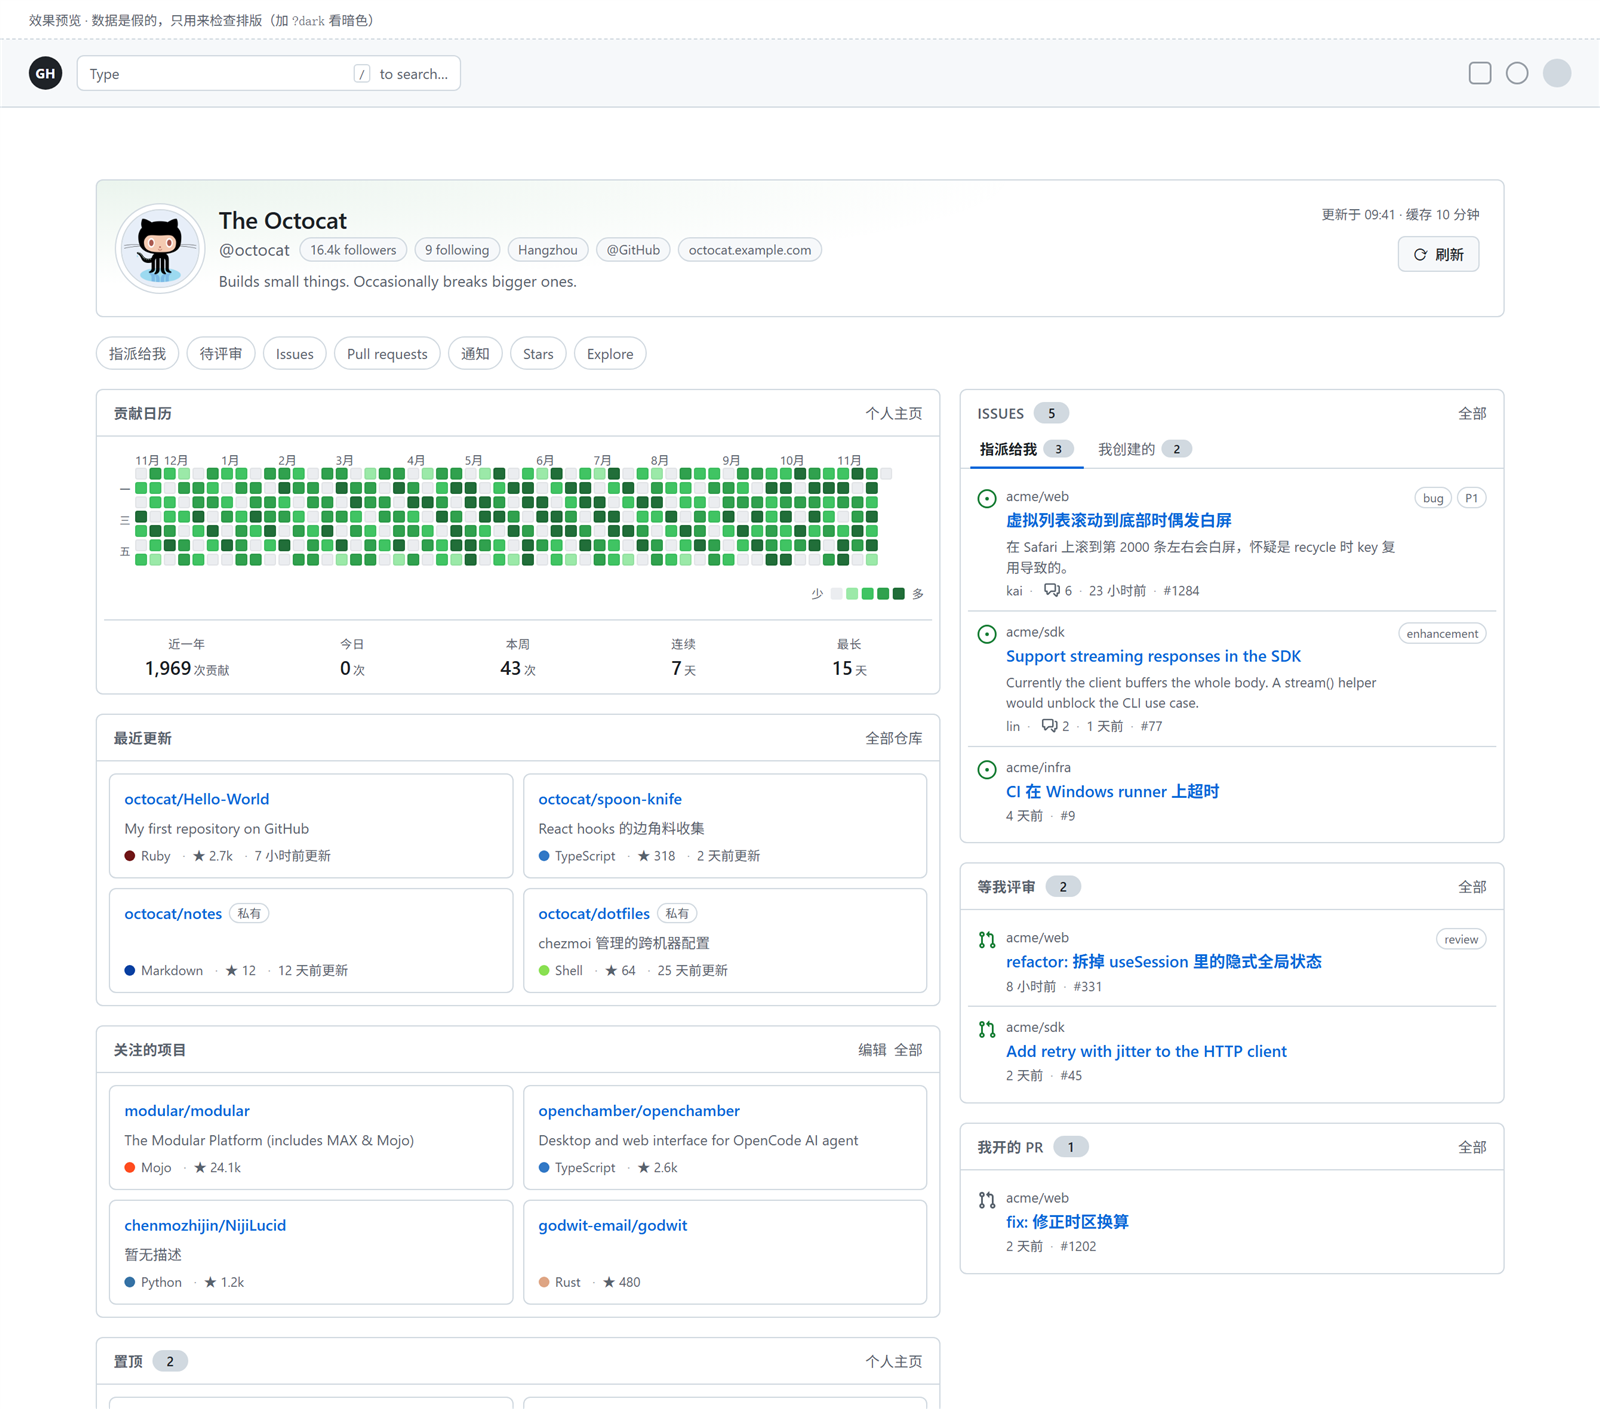
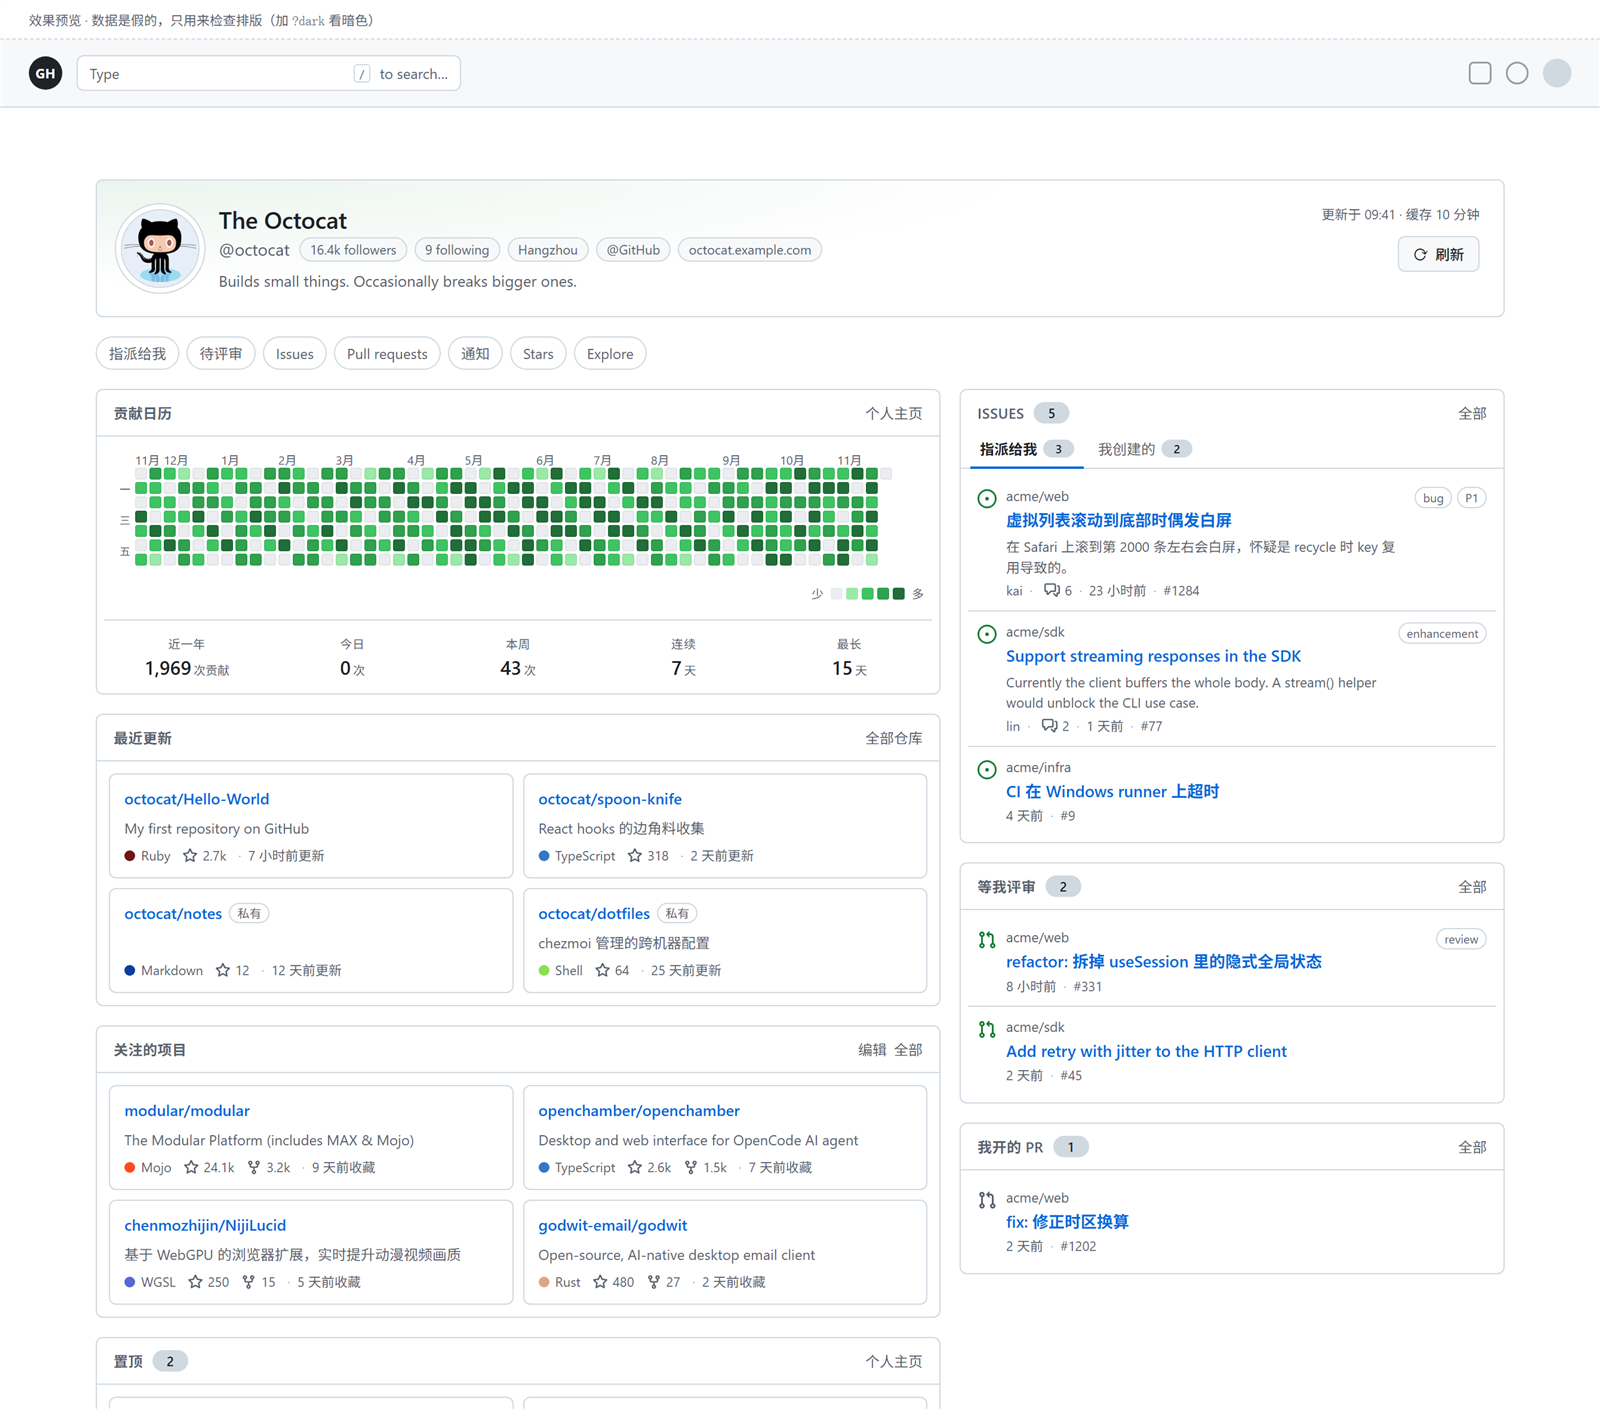
feat: 仓库卡片补上 fork 数与收藏时间
/stars 每行其实还给了一个 relative-time，但它是「Starred on ...」的收藏日期，
不是仓库更新时间 —— 之前直接丢掉了，卡片上就只剩名字、语言和 star。

- parseStarredRepos: 加 forks（a[href$="/forks"]）和 starredAt（relative-time）
- parseRepoList: 同样加 forks
- 卡片 meta 改成「语言 · ☆ star · ⑂ fork · N 天前收藏 / 更新时间」，
  star / fork 用 octicon（新增 star、repo-forked 两个图标）
- 缓存升 v4
- 补测试：卡片带 2 个 stat 图标

diff --git a/preview/demo.html b/preview/demo.html
@@ -370,10 +370,10 @@
 
         app.apply('starred', {
           data: [
-            { fullName: 'modular/modular', href: '/modular/modular', description: 'The Modular Platform (includes MAX & Mojo)', language: 'Mojo', languageColor: '#ff4c1f', stars: '24.1k', updated: null, visibility: '' },
-            { fullName: 'openchamber/openchamber', href: '/openchamber/openchamber', description: 'Desktop and web interface for OpenCode AI agent', language: 'TypeScript', languageColor: '#3178c6', stars: '2.6k', updated: null, visibility: '' },
-            { fullName: 'chenmozhijin/NijiLucid', href: '/chenmozhijin/NijiLucid', description: '暂无描述', language: 'Python', languageColor: '#3572A5', stars: '1.2k', updated: null, visibility: '' },
-            { fullName: 'godwit-email/godwit', href: '/godwit-email/godwit', description: '', language: 'Rust', languageColor: '#dea584', stars: '480', updated: null, visibility: '' }
+            { fullName: 'modular/modular', href: '/modular/modular', description: 'The Modular Platform (includes MAX & Mojo)', language: 'Mojo', languageColor: '#ff4c1f', stars: '24.1k', forks: '3.2k', starredAt: '2026-11-12T10:00:00Z', updated: null, visibility: '' },
+            { fullName: 'openchamber/openchamber', href: '/openchamber/openchamber', description: 'Desktop and web interface for OpenCode AI agent', language: 'TypeScript', languageColor: '#3178c6', stars: '2.6k', forks: '1.5k', starredAt: '2026-11-14T10:00:00Z', updated: null, visibility: '' },
+            { fullName: 'chenmozhijin/NijiLucid', href: '/chenmozhijin/NijiLucid', description: '基于 WebGPU 的浏览器扩展，实时提升动漫视频画质', language: 'WGSL', languageColor: '#5A67D8', stars: '250', forks: '15', starredAt: '2026-11-16T13:12:00Z', updated: null, visibility: '' },
+            { fullName: 'godwit-email/godwit', href: '/godwit-email/godwit', description: 'Open-source, AI-native desktop email client', language: 'Rust', languageColor: '#dea584', stars: '480', forks: '27', starredAt: '2026-11-19T09:00:00Z', updated: null, visibility: '' }
           ]
         });
 
@@ -391,6 +391,7 @@
     </script>
   </body>
 </html>
+
 
 
 

diff --git a/src/core/parse.js b/src/core/parse.js
@@ -390,6 +390,7 @@ GHW.parse = (function () {
       var lang = li.querySelector('span[itemprop="programmingLanguage"]');
       var colorEl = li.querySelector('.repo-language-color');
       var stars = li.querySelector('a[href$="/stargazers"]');
+      var forks = li.querySelector('a[href$="/forks"]');
       var timeEl = li.querySelector('relative-time[datetime], time[datetime]');
       var vis = li.querySelector('.Label');
 
@@ -402,6 +403,8 @@ GHW.parse = (function () {
         language: lang ? U.textOf(lang) : '',
         languageColor: U.colorFromStyle(colorEl && colorEl.getAttribute('style')),
         stars: stars ? U.textOf(stars).replace(/[^\d.,km]/gi, '') : '',
+        forks: forks ? U.textOf(forks).replace(/[^\d.,km]/gi, '') : '',
+        starredAt: null,
         updated: timeEl ? timeEl.getAttribute('datetime') : null,
         visibility: vis ? U.textOf(vis) : ''
       });
@@ -483,6 +486,8 @@ GHW.parse = (function () {
       var lang = li.querySelector('[itemprop="programmingLanguage"]');
       var colorEl = li.querySelector('.repo-language-color');
       var stars = li.querySelector('a[href$="/stargazers"]');
+      var forks = li.querySelector('a[href$="/forks"]');
+      var timeEl = li.querySelector('relative-time[datetime], time[datetime]');
 
       out.push({
         fullName: parts[0] + '/' + parts[1],
@@ -493,6 +498,9 @@ GHW.parse = (function () {
         language: lang ? U.textOf(lang) : '',
         languageColor: U.colorFromStyle(colorEl && colorEl.getAttribute('style')),
         stars: stars ? U.textOf(stars).replace(/[^\d.,km]/gi, '') : '',
+        forks: forks ? U.textOf(forks).replace(/[^\d.,km]/gi, '') : '',
+        // /stars 里的时间戳是「收藏时间」，不是仓库更新时间
+        starredAt: timeEl ? timeEl.getAttribute('datetime') : null,
         updated: null,
         visibility: ''
       });

diff --git a/src/content/icons.js b/src/content/icons.js
@@ -31,6 +31,12 @@ GHW.icons = (function () {
     ],
     'comment-discussion': [
       'M1.75 1h8.5c.966 0 1.75.784 1.75 1.75v5.5A1.75 1.75 0 0 1 10.25 10H7.061l-2.574 2.573A1.458 1.458 0 0 1 2 11.543V10h-.25A1.75 1.75 0 0 1 0 8.25v-5.5C0 1.784.784 1 1.75 1ZM1.5 2.75v5.5c0 .138.112.25.25.25h1a.75.75 0 0 1 .75.75v2.19l2.72-2.72a.749.749 0 0 1 .53-.22h3.5a.25.25 0 0 0 .25-.25v-5.5a.25.25 0 0 0-.25-.25h-8.5a.25.25 0 0 0-.25.25Zm13 2a.25.25 0 0 0-.25-.25h-.5a.75.75 0 0 1 0-1.5h.5c.966 0 1.75.784 1.75 1.75v5.5A1.75 1.75 0 0 1 14.25 12H14v1.543a1.458 1.458 0 0 1-2.487 1.03L9.22 12.28a.749.749 0 0 1 .326-1.275.749.749 0 0 1 .734.215l2.22 2.22v-2.19a.75.75 0 0 1 .75-.75h1a.25.25 0 0 0 .25-.25Z'
+    ],
+    star: [
+      'M8 .25a.75.75 0 0 1 .673.418l1.882 3.815 4.21.612a.75.75 0 0 1 .416 1.279l-3.046 2.97.719 4.192a.751.751 0 0 1-1.088.791L8 12.347l-3.766 1.98a.75.75 0 0 1-1.088-.79l.72-4.194L.818 6.374a.75.75 0 0 1 .416-1.28l4.21-.611L7.327.668A.75.75 0 0 1 8 .25Zm0 2.445L6.615 5.5a.75.75 0 0 1-.564.41l-3.097.45 2.24 2.184a.75.75 0 0 1 .216.664l-.528 3.084 2.769-1.456a.75.75 0 0 1 .698 0l2.77 1.456-.53-3.084a.75.75 0 0 1 .216-.664l2.24-2.183-3.096-.45a.75.75 0 0 1-.564-.41L8 2.694Z'
+    ],
+    'repo-forked': [
+      'M5 5.372v.878c0 .414.336.75.75.75h4.5a.75.75 0 0 0 .75-.75v-.878a2.25 2.25 0 1 1 1.5 0v.878a2.25 2.25 0 0 1-2.25 2.25h-1.5v2.128a2.251 2.251 0 1 1-1.5 0V8.5h-1.5A2.25 2.25 0 0 1 3.5 6.25v-.878a2.25 2.25 0 1 1 1.5 0ZM5 3.25a.75.75 0 1 0-1.5 0 .75.75 0 0 0 1.5 0Zm6.75.75a.75.75 0 1 0 0-1.5.75.75 0 0 0 0 1.5Zm-3 8.75a.75.75 0 1 0-1.5 0 .75.75 0 0 0 1.5 0Z'
     ]
   };
 

diff --git a/src/content/ui.js b/src/content/ui.js
@@ -255,6 +255,9 @@ GHW.ui = (function () {
   /* -------------------------------------------------------------- 仓库卡片 */
 
   function repoCard(r) {
+    // 关注的项目用「收藏时间」，自己的仓库用「更新时间」
+    var when = r.starredAt ? U.relTime(r.starredAt) + '收藏' : r.updated ? U.relTime(r.updated) + '更新' : '';
+
     return h(
       'a',
       { class: 'ghw-repo', href: abs(r.href) },
@@ -278,8 +281,23 @@ GHW.ui = (function () {
               h('span', { text: r.language })
             )
           : null,
-        r.stars ? h('span', { class: 'ghw-dim', text: '★ ' + r.stars }) : null,
-        r.updated ? h('span', { class: 'ghw-dim', text: U.relTime(r.updated) + '更新' }) : null
+        r.stars
+          ? h(
+              'span',
+              { class: 'ghw-repo-stat' },
+              GHW.icons.make('star', 'ghw-ico-sm'),
+              h('span', { text: r.stars })
+            )
+          : null,
+        r.forks
+          ? h(
+              'span',
+              { class: 'ghw-repo-stat' },
+              GHW.icons.make('repo-forked', 'ghw-ico-sm'),
+              h('span', { text: r.forks })
+            )
+          : null,
+        when ? h('span', { class: 'ghw-dim', text: when }) : null
       )
     );
   }

diff --git a/src/core/store.js b/src/core/store.js
@@ -15,7 +15,7 @@ GHW.store = (function () {
 
   var SETTINGS_KEY = 'ghw:settings';
   // 解析结果改结构时升版本号，让旧缓存自动作废
-  var CACHE_PREFIX = 'ghw:cache:v3:';
+  var CACHE_PREFIX = 'ghw:cache:v4:';
 
   var DEFAULTS = {
     // 总开关：开 = 接管内容区，关 = 完全不介入（没有「半接管」这种中间状态）
@@ -172,4 +172,5 @@ GHW.store = (function () {
     clearCache: clearCache
   };
 })();
+
 

diff --git a/src/content/styles.css b/src/content/styles.css
@@ -916,6 +916,17 @@ html.ghw-native-hidden body footer {
   display: inline-block;
 }
 
+.ghw-repo-stat {
+  display: inline-flex;
+  align-items: center;
+  gap: 4px;
+  color: var(--ghw-muted);
+}
+
+.ghw-repo-stat .ghw-ico {
+  color: var(--ghw-muted);
+}
+
 /* ------------------------------------------------------------- 贡献日历 */
 
 .ghw-heat {
